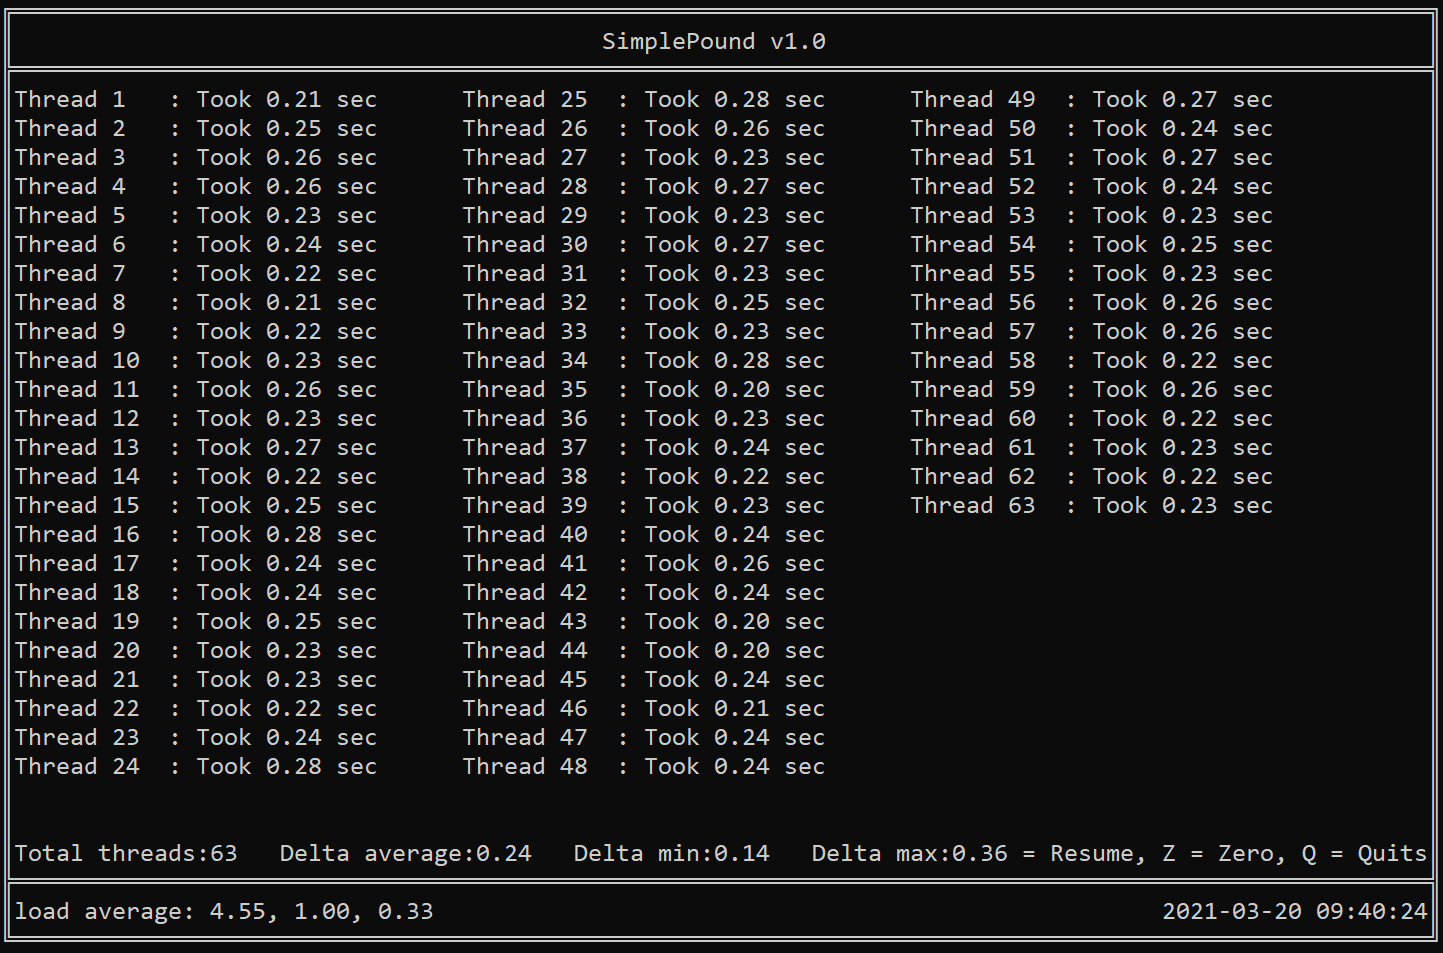
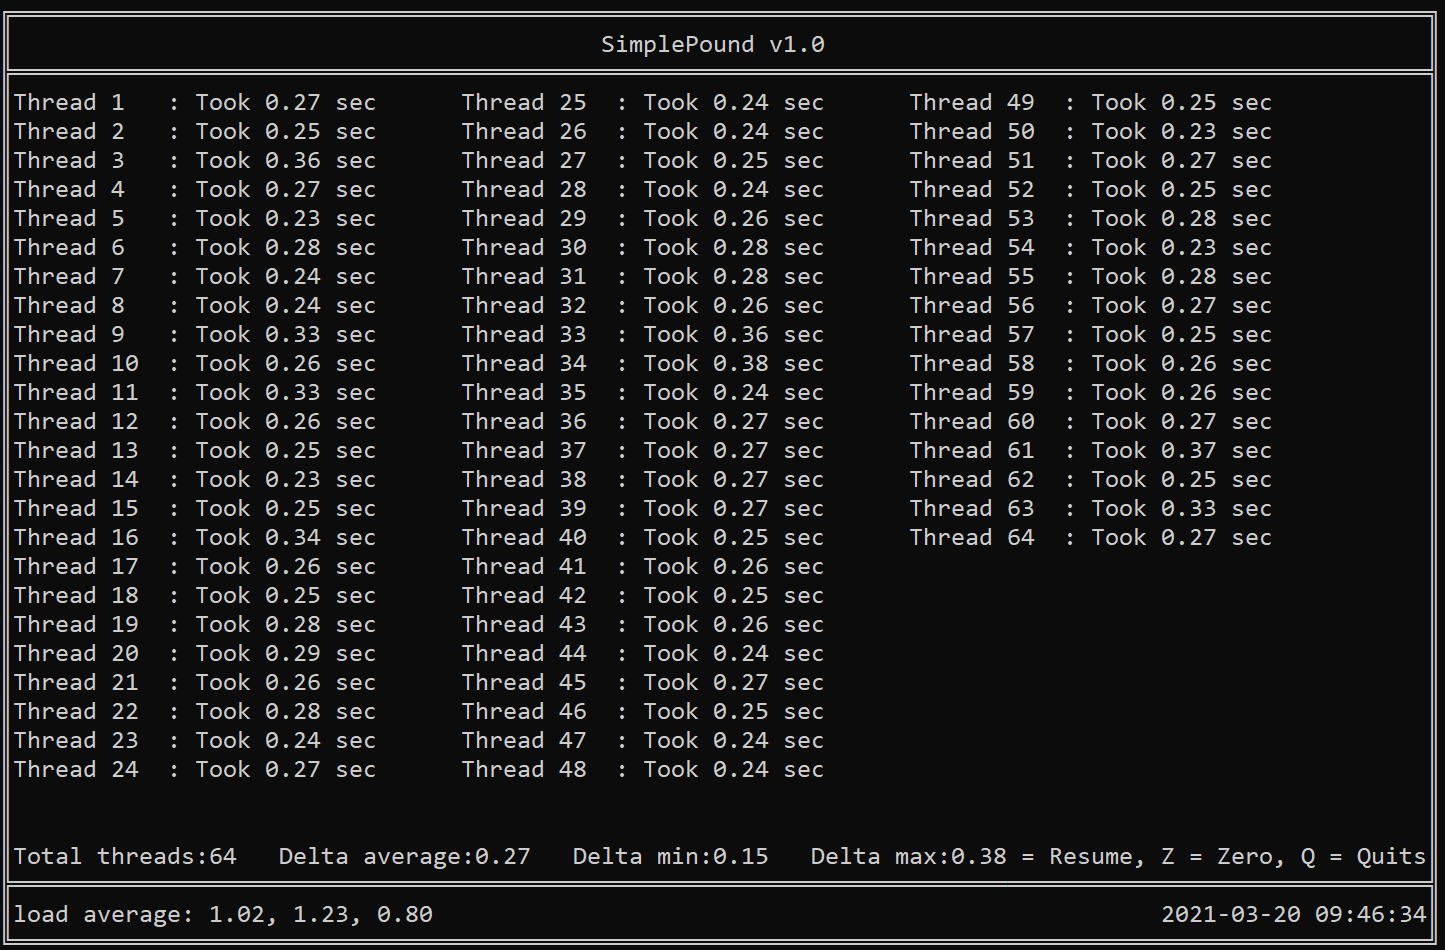
The commandline argument --thread 64 now gives actually 64 threads, and not 63 :P

Changed region(s): [[0.0, 0.0, 0.9979, 1.0]]

diff --git a/SimplePound.py b/SimplePound.py
@@ -188,7 +188,7 @@ class Worker(threading.Thread):
 		self.kill()
 
 threads = []
-for i in range(1,args.threads):
+for i in range(1,args.threads + 1):
 	threads.append(Worker("Thread "+str(len(threads)+1)));
 	threads[-1].start()
 
